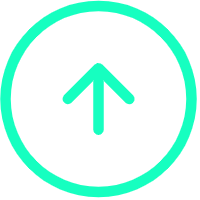
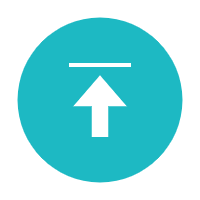
feat: 增加回到顶部功能

diff --git a/components/GoTop/index.tsx b/components/GoTop/index.tsx
@@ -1,0 +1,60 @@
+import React from 'react';
+import { CSSTransition } from 'react-transition-group';
+
+import styles from './index.module.scss';
+
+const GoTop: React.FC = () => {
+  /**
+   * @see https://github.com/reactjs/react-transition-group/issues/779
+   */
+  const ref = React.useRef(null);
+  const [visible, setVisible] = React.useState(false);
+
+  const scrollTop = () => {
+    window.scrollTo({
+      top: 0,
+      behavior: 'smooth',
+    });
+  };
+
+  React.useEffect(() => {
+    let scrollTimer = -1;
+    const listener = () => {
+      window.clearTimeout(scrollTimer);
+      scrollTimer = window.requestAnimationFrame(() => {
+        const { scrollTop } = document.documentElement;
+        if (scrollTop > 300 && !visible) {
+          setVisible(true);
+        } else if (visible && scrollTop < 300) {
+          setVisible(false);
+        }
+      });
+    };
+
+    document.addEventListener('scroll', listener);
+    return () => {
+      document.removeEventListener('scroll', listener);
+    };
+  }, [visible]);
+
+  return (
+    <CSSTransition
+      nodeRef={ref}
+      in={visible}
+      timeout={300}
+      classNames={{
+        enter: styles.goTopAnimationEnter,
+        enterActive: styles.goTopAnimationEnterActive,
+        exit: styles.goTopAnimationExit,
+        exitActive: styles.goTopAnimationExitActive,
+      }}
+      unmountOnExit
+    >
+      <div className={styles.goTop} ref={ref} onClick={scrollTop}>
+        <div data-icon="go_top" />
+      </div>
+    </CSSTransition>
+  );
+};
+
+export default GoTop;

diff --git a/pages/index.tsx b/pages/index.tsx
@@ -2,12 +2,13 @@
  * @Author: MADAO
  * @Date: 2021-06-10 15:46:14
  * @LastEditors: MADAO
- * @LastEditTime: 2022-01-27 14:33:02
+ * @LastEditTime: 2022-03-07 12:27:47
  * @Description: 主页
  */
 import type { NextPage, InferGetServerSidePropsType, NextApiRequest } from 'next';
 
 import React from 'react';
+import { useRouter } from 'next/router';
 
 import Layout from '~/components/Layout';
 import PostPane from '~/components/PostPane';
@@ -24,9 +25,7 @@ import { getErrorInfo } from '~/utils/middlewares';
 
 const Home: NextPage<InferGetServerSidePropsType<typeof getServerSideProps>> = props => {
   useUpdateUserId(props.userId);
-
-  const [currentPage, setCurrentPage] = React.useState(props.pagination.currentPage);
-
+  const router = useRouter();
   return (
     <Layout errorInfo={props.errorInfo}>
       <Welcome />
@@ -39,8 +38,11 @@ const Home: NextPage<InferGetServerSidePropsType<typeof getServerSideProps>> = p
       <Pagination
         pageSize={props.pagination.pageSize}
         total={props.pagination.total}
-        currentPage={currentPage}
-        onClick={params => setCurrentPage(params)}
+        currentPage={props.pagination.currentPage}
+        onClick={page => router.push({
+          pathname: '/',
+          query: { page },
+        })}
       />
     </Layout>
   );

diff --git a/controller/post.ts b/controller/post.ts
@@ -3,7 +3,7 @@
  * @Author: MADAO
  * @Date: 2021-09-15 12:00:19
  * @LastEditors: MADAO
- * @LastEditTime: 2022-02-24 16:23:37
+ * @LastEditTime: 2022-03-07 12:29:29
  */
 import type { GetPostsParams, GetPostsResponse } from '~/types/services/post';
 import type { API } from '~/types/API';
@@ -197,7 +197,10 @@ export default class PostController {
       await handleAccess();
       await handleParams();
       const post = await handlePost(user);
-      await handleStorageToLocal(user);
+      if (process.env.NODE_ENV === 'production') {
+        await handleStorageToLocal(user);
+      }
+
       return formatResponse(200, post, postId ? '更新成功' : '发布成功');
     } catch (error: any) {
       return error;
@@ -207,7 +210,7 @@ export default class PostController {
   async getPosts(params: GetPostsParams): Promise<API.ResponseData<GetPostsResponse>> {
     const post = await promiseWithSettled(prisma.$transaction([
       prisma.post.findMany({
-        skip: params.page === 1 ? 0 : params.page * params.pageSize,
+        skip: params.page === 1 ? 0 : (params.page - 1) * params.pageSize,
         take: params.pageSize,
         where: params.labelId
           ? {

diff --git a/components/GoTop/index.module.scss b/components/GoTop/index.module.scss
@@ -1,0 +1,46 @@
+@import '~/assets/styles/mixin.scss';
+@import '~/assets/styles/animation.scss';
+
+.goTop {
+  position: fixed;
+  right: 40px;
+  bottom: 50px;
+  @include zIndex(backdrop, 9);
+  > div {
+    cursor: pointer;
+    &[data-icon="go_top"] {
+      background: url('~/assets/images/go_top.png') no-repeat center / 100%;
+      width: 60px;
+      height: 60px;
+    }
+  }
+}
+
+.goTopAnimation {
+  &Enter {
+    transform: translateX(150%);
+  }
+  &EnterActive {
+    transform: translateX(0);
+    transition: all 300ms $easeOutSine;
+  }
+  &Exit {
+    transform: translateX(0);
+  }
+  &ExitActive {
+    transform: translateX(150%);
+    transition: all 300ms $easeOutSine;
+  }
+}
+
+.animationEnter,
+.animationExit {
+  opacity: 0;
+  transform: translateX(-150%);
+}
+.animationEnterActive,
+.animationExitActive {
+  opacity: 1;
+  transform: translateX(0);
+  transition: all 200ms;
+}

diff --git a/components/Layout/index.tsx b/components/Layout/index.tsx
@@ -6,6 +6,7 @@ import Error from 'next/error';
 import styles from './index.module.scss';
 import Header from '~/components/Header';
 import Footer from '~/components/Footer';
+import Sidebar from '~/components/GoTop';
 
 const Layout: React.FC<LayoutProps> = props => {
   if (props.errorInfo) {
@@ -18,7 +19,8 @@ const Layout: React.FC<LayoutProps> = props => {
   return (
     <main className={styles.layout}>
       <Header />
-      { props.children }
+      <Sidebar />
+      {props.children}
       <Footer />
     </main>
   );

diff --git a/components/Notification/index.module.scss b/components/Notification/index.module.scss
@@ -1,4 +1,5 @@
 @import '~/assets/styles/mixin.scss';
+@import '~/assets/styles/animation.scss';
 
 $bgColor: #2a274d;
 $themes: (
@@ -11,7 +12,6 @@ $themes: (
     'color': #fc1153
   ),
 );
-$easeOutSine: cubic-bezier(0.39, 0.575, 0.565, 1);
 
 .notificationWrap {
   position: fixed;

diff --git a/pages/api/v1/posts/index.ts b/pages/api/v1/posts/index.ts
@@ -3,7 +3,7 @@
  * @Author: MADAO
  * @Date: 2021-08-07 14:11:15
  * @LastEditors: MADAO
- * @LastEditTime: 2022-02-24 15:38:32
+ * @LastEditTime: 2022-03-07 12:29:03
  */
 import type { NextApiHandler } from 'next';
 

diff --git a/components/Backdrop/index.module.scss b/components/Backdrop/index.module.scss
@@ -6,7 +6,7 @@
   left: 0;
   right: 0;
   bottom: 0;
-  @include zIndex(backdrop, 1);
+  @include zIndex(backdrop, 10);
   background: rgba(0,0,0,0.5);
   pointer-events: auto;
   display: flex;

diff --git a/assets/styles/animation.scss b/assets/styles/animation.scss
@@ -1,0 +1,1 @@
+$easeOutSine: cubic-bezier(0.39, 0.575, 0.565, 1);
